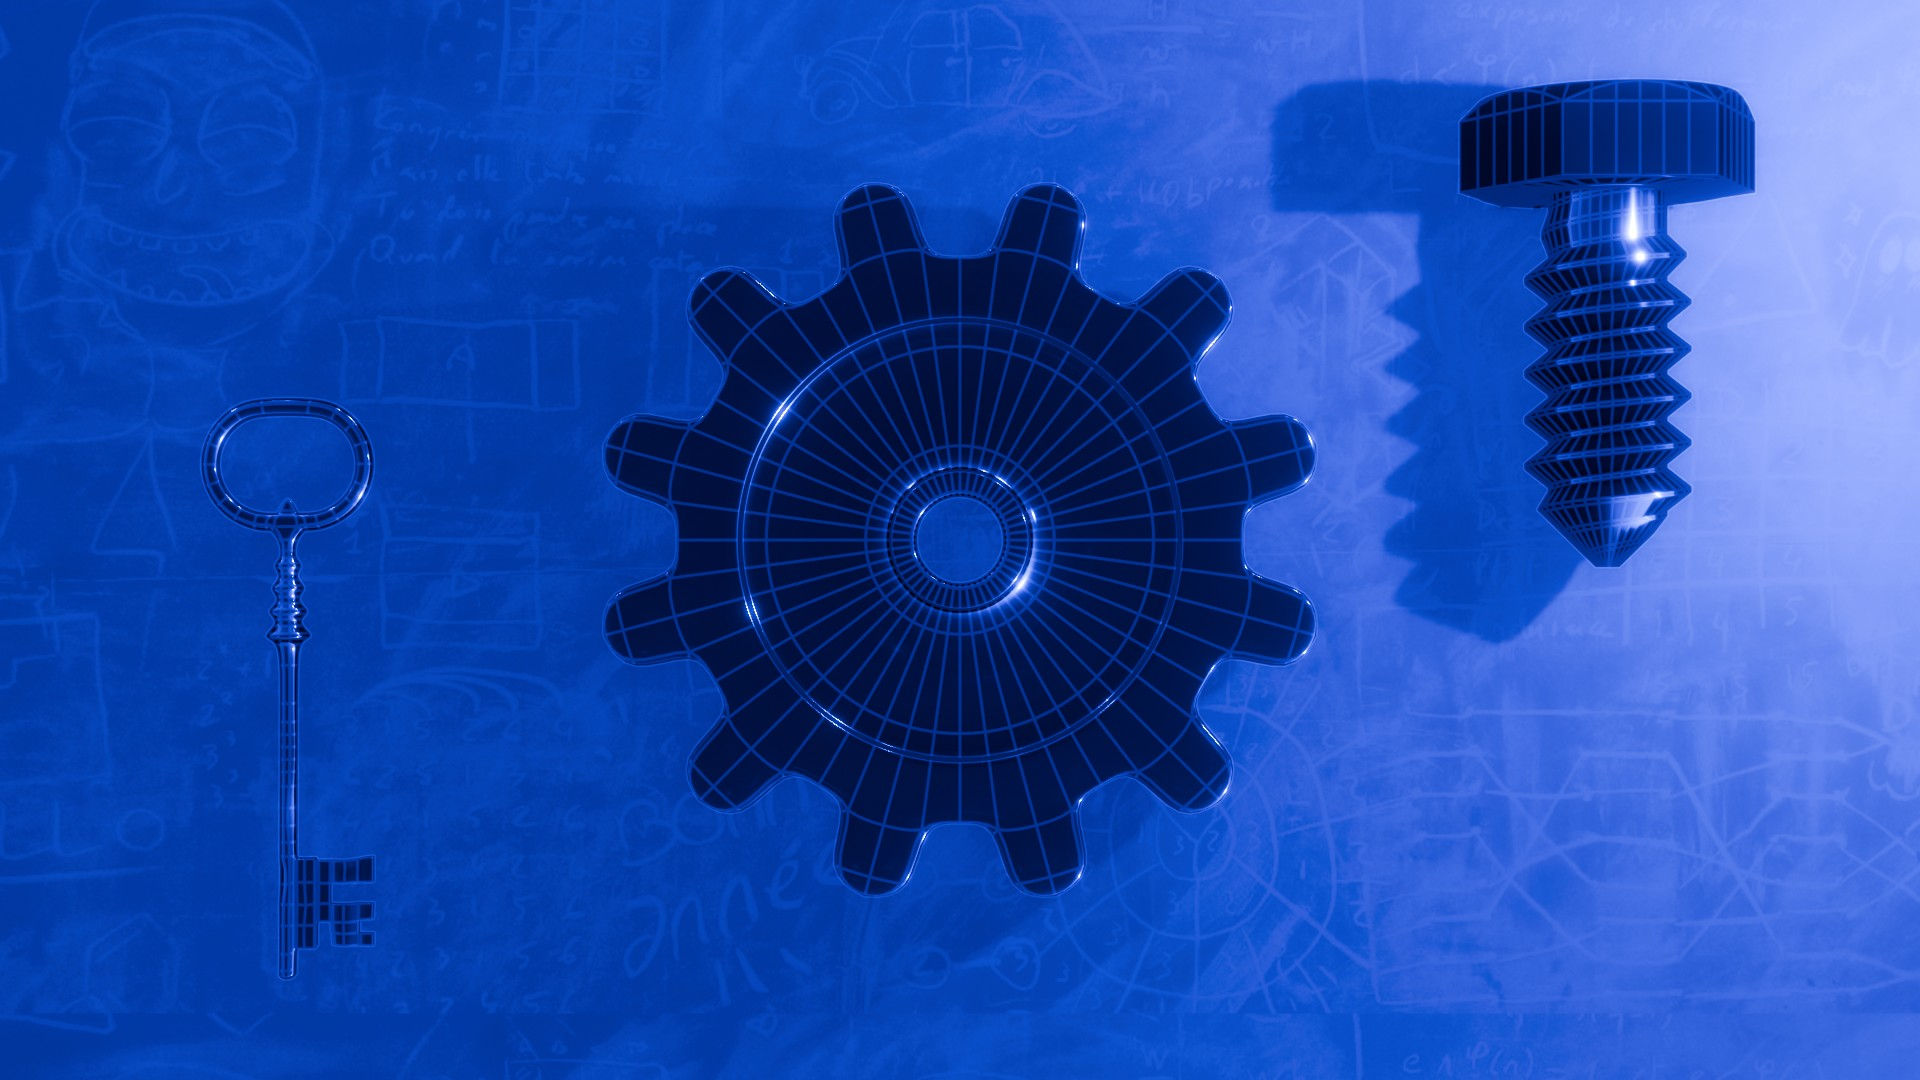
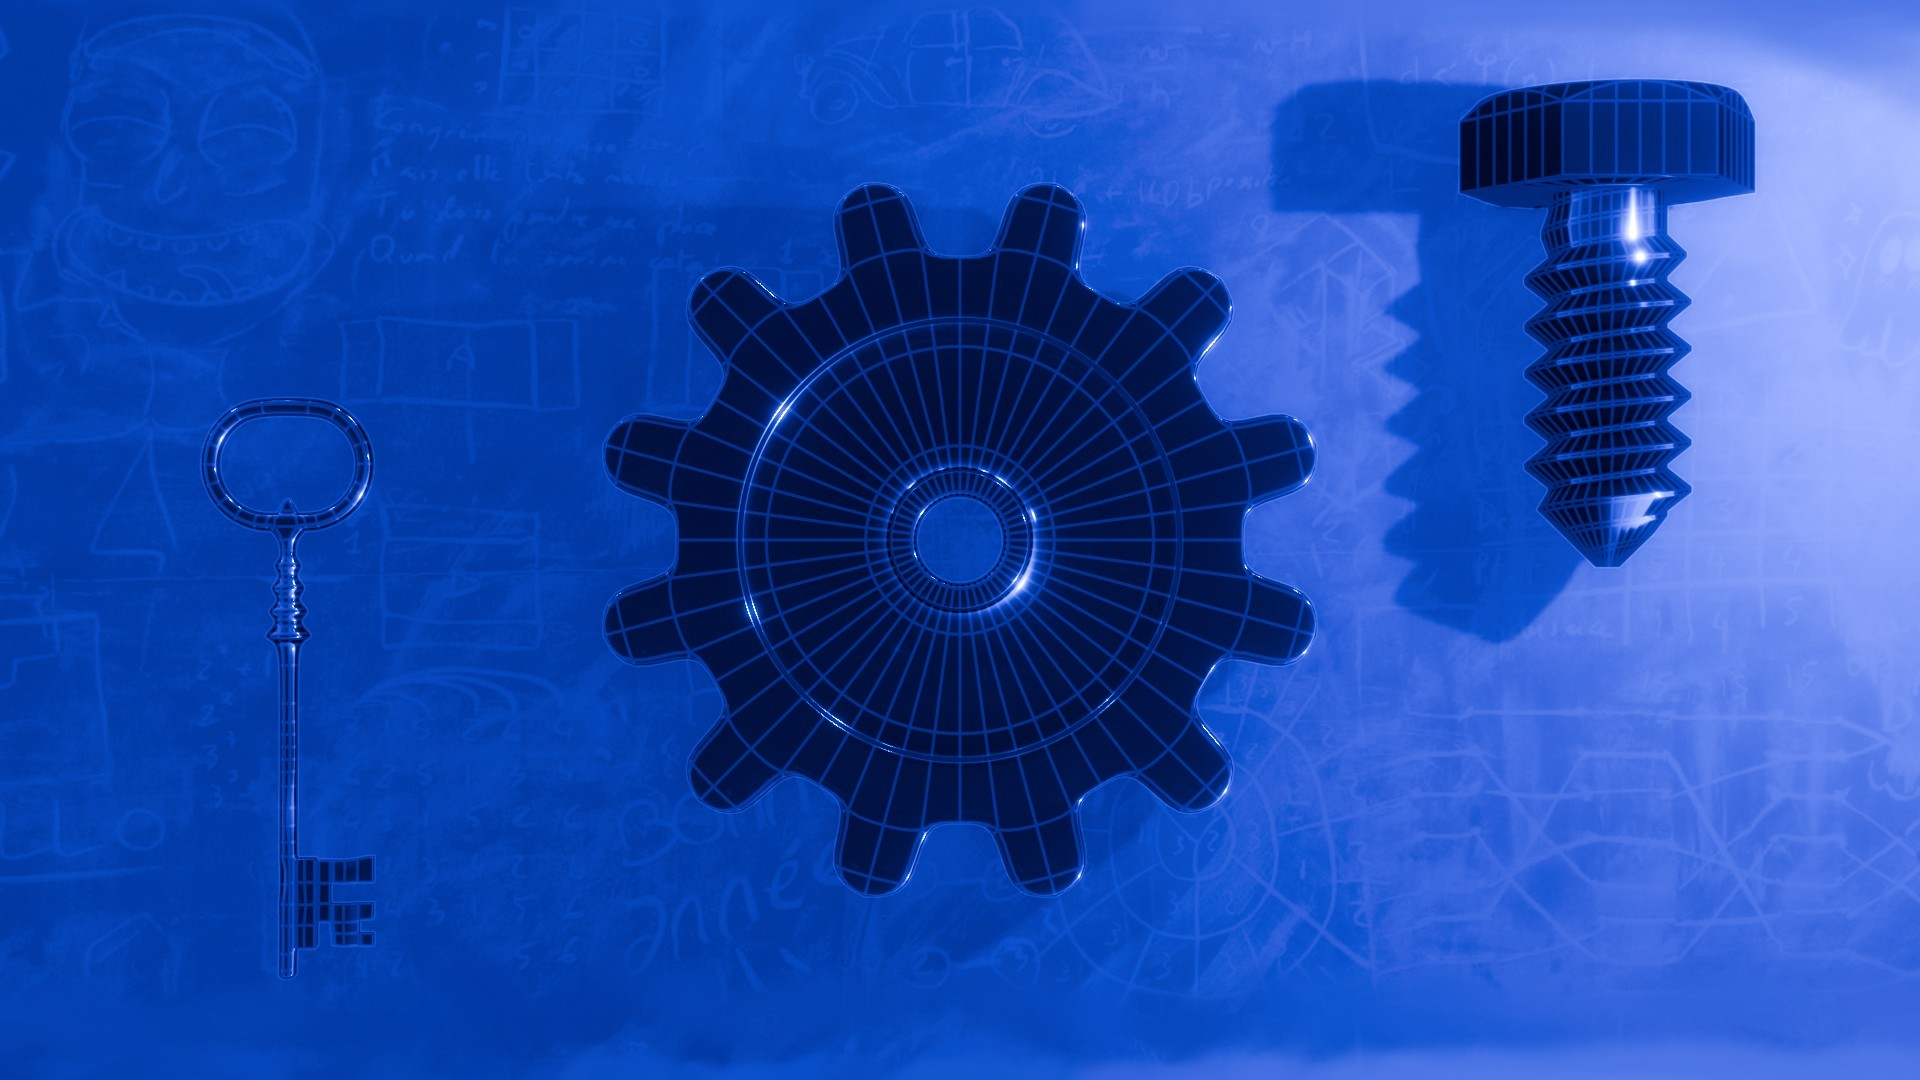
Motor

Changed region(s): [[0.5625, 0.9472, 0.9375, 1.0], [0.7812, 0.0, 1.0, 0.0917], [0.3438, 0.9778, 0.375, 1.0]]

diff --git a/src/app/index.tsx b/src/app/index.tsx
@@ -1,7 +1,7 @@
 /**
  * WARNING! this file has been generated automatically.
  * Please do not edit it because it will probably be overwritten.
- * 2024-01-29T16:36:04.837Z
+ * 2024-01-29T19:04:51.265Z
  */
 import React from "react"
 import Layout0 from "./layout"
@@ -33,12 +33,14 @@ const Page17 = React.lazy(() => import("./work/articles/MediationFamilliale/page
 const Page17_1 = React.lazy(() => import("./work/articles/MediationFamilliale/page.en.mdx"))
 const Page18 = React.lazy(() => import("./work/articles/Minervois/page.mdx"))
 const Page18_1 = React.lazy(() => import("./work/articles/Minervois/page.en.mdx"))
-const Page19 = React.lazy(() => import("./work/articles/SnowRobots/page.mdx"))
-const Page20 = React.lazy(() => import("./work/articles/Tournus/page.mdx"))
-const Page20_1 = React.lazy(() => import("./work/articles/Tournus/page.en.mdx"))
-const Page21 = React.lazy(() => import("./work/articles/TrailTar/page.mdx"))
-const Page21_1 = React.lazy(() => import("./work/articles/TrailTar/page.en.mdx"))
-const Page22 = React.lazy(() => import("./work/articles/VoughtTower/page.mdx"))
+const Page19 = React.lazy(() => import("./work/articles/Motor/page.mdx"))
+const Page19_1 = React.lazy(() => import("./work/articles/Motor/page.en.mdx"))
+const Page20 = React.lazy(() => import("./work/articles/SnowRobots/page.mdx"))
+const Page21 = React.lazy(() => import("./work/articles/Tournus/page.mdx"))
+const Page21_1 = React.lazy(() => import("./work/articles/Tournus/page.en.mdx"))
+const Page22 = React.lazy(() => import("./work/articles/TrailTar/page.mdx"))
+const Page22_1 = React.lazy(() => import("./work/articles/TrailTar/page.en.mdx"))
+const Page23 = React.lazy(() => import("./work/articles/VoughtTower/page.mdx"))
 
 export default function App({ lang }: { lang?: string }) {
     const fb0 = intl(<Loading0/>, {"en": <Loading0_1/>}, lang)
@@ -62,10 +64,11 @@ export default function App({ lang }: { lang?: string }) {
     const pg16 = intl(Page16, {"en": Page16_1}, lang)
     const pg17 = intl(Page17, {"en": Page17_1}, lang)
     const pg18 = intl(Page18, {"en": Page18_1}, lang)
-    const pg19 = Page19
-    const pg20 = intl(Page20, {"en": Page20_1}, lang)
+    const pg19 = intl(Page19, {"en": Page19_1}, lang)
+    const pg20 = Page20
     const pg21 = intl(Page21, {"en": Page21_1}, lang)
-    const pg22 = Page22
+    const pg22 = intl(Page22, {"en": Page22_1}, lang)
+    const pg23 = Page23
     return (
         <Route path="/" Page={pg0} Layout={ly0} fallback={fb0}>
             <Route path="/blog" Page={pg1} Layout={ly1} fallback={fb0}>
@@ -90,10 +93,11 @@ export default function App({ lang }: { lang?: string }) {
                     <Route path="/work/articles/HandsOnWebGL" Page={pg16} fallback={fb0} />
                     <Route path="/work/articles/MediationFamilliale" Page={pg17} fallback={fb0} />
                     <Route path="/work/articles/Minervois" Page={pg18} fallback={fb0} />
-                    <Route path="/work/articles/SnowRobots" Page={pg19} fallback={fb0} />
-                    <Route path="/work/articles/Tournus" Page={pg20} fallback={fb0} />
-                    <Route path="/work/articles/TrailTar" Page={pg21} fallback={fb0} />
-                    <Route path="/work/articles/VoughtTower" Page={pg22} fallback={fb0} />
+                    <Route path="/work/articles/Motor" Page={pg19} fallback={fb0} />
+                    <Route path="/work/articles/SnowRobots" Page={pg20} fallback={fb0} />
+                    <Route path="/work/articles/Tournus" Page={pg21} fallback={fb0} />
+                    <Route path="/work/articles/TrailTar" Page={pg22} fallback={fb0} />
+                    <Route path="/work/articles/VoughtTower" Page={pg23} fallback={fb0} />
                 </Route>
             </Route>
         </Route>

diff --git a/src/components/Article/Article.module.css b/src/components/Article/Article.module.css
@@ -6,14 +6,9 @@
     height: 100%;
     margin: 0;
     padding: 0;
-    overflow: auto;
     color: #fffd;
+    margin: 64px 0 128px 0;
 }
-
-/* .Article > div > * {
-    background-color: #000a;
-    backdrop-filter: blur(5px);
-} */
 
 .Article > footer {
     position: fixed;
@@ -35,58 +30,52 @@
     font-style: italic;
 }
 
-.Grid {
-    display: grid;
-    grid-template-columns: 1fr 390px 390px 1fr;
-    margin: 64px 0;
-}
-
-.Grid > * {
+.Article > * {
     grid-column: 2/4;
 }
 
-.Grid > :global(*.full-width) {
+.Article > :global(*.full-width) {
     grid-column: 1/5;
     padding: 0.5em;
 }
 
-.Grid > :global(*.margin-right) {
+.Article > :global(*.margin-right) {
     grid-column: 4/5;
     padding: 1em;
 }
 
-.Grid > :global(*.margin-left) {
+.Article > :global(*.margin-left) {
     grid-column: 1/2;
     padding: 1em;
 }
 
 @media (max-width: 1200px) {
-    .Grid > :global(*.margin-right) {
+    .Article > :global(*.margin-right) {
         grid-column: 2/4;
     }
 
-    .Grid > :global(*.margin-left) {
+    .Article > :global(*.margin-left) {
         grid-column: 2/4;
     }
 }
 
 @media (max-width: 800px) {
-    .Grid {
+    .Article {
         grid-template-columns: 10px 1fr 1fr 10px;
     }
 }
 
-.Grid h1,
-.Grid h2,
-.Grid h3 {
+.Article h1,
+.Article h2,
+.Article h3 {
     display: block;
     position: relative;
     padding: 0 0 0 0.5em;
 }
 
-.Grid h1::after,
-.Grid h2::after,
-.Grid h3::after {
+.Article h1::after,
+.Article h2::after,
+.Article h3::after {
     content: "";
     position: absolute;
     left: 0;
@@ -96,16 +85,16 @@
     background: linear-gradient(to right, currentcolor, transparent);
 }
 
-.Grid h1 {
+.Article h1 {
     font-size: 145%;
 }
 
-.Grid h2 {
+.Article h2 {
     font-size: 130%;
     margin-left: 1em;
 }
 
-.Grid h3 {
+.Article h3 {
     font-size: 115%;
     margin-left: 2em;
 }

diff --git a/src/components/Welcome/Welcome.tsx b/src/components/Welcome/Welcome.tsx
@@ -1,7 +1,6 @@
 import React from "react"
 import Vignettes from "../Vignettes"
 import Style from "./Welcome.module.css"
-import Contact from "../Contact"
 
 export interface WelcomeProps {
     className?: string
@@ -36,7 +35,7 @@ export default function Welcome({ className }: WelcomeProps) {
                                 font: "16px sans-serif",
                             }}
                         >
-                            <g text-anchor="middle" dominant-baseline="middle">
+                            <g textAnchor="middle" dominantBaseline="middle">
                                 <text fill="currentColor">Tolokoban</text>
                             </g>
                         </svg>
@@ -45,6 +44,7 @@ export default function Welcome({ className }: WelcomeProps) {
                 <Vignettes
                     prefix="work/articles"
                     images={[
+                        "Motor",
                         "Minervois",
                         "Fern",
                         "Akonolinga",

diff --git a/src/app/work/layout.module.css b/src/app/work/layout.module.css
@@ -8,8 +8,8 @@
     overflow: auto;
     background-color: #00349a;
     background-image: url(@/gfx/blue-print.jpg);
-    background-size: cover;
-    background-position: center;
+    background-size: 100%;
+    background-position: left top;
     display: grid;
     grid-template-columns: 1fr min(680px, 95vw) 1fr;
     --theme-color-accent: #cc8700;
@@ -29,8 +29,12 @@
     display: flex;
     justify-content: space-between;
     align-items: center;
-    padding: 0.25em 0.5em;
-    background: linear-gradient(to top, transparent, #1453cebb 80%, #1453ce);
+    padding: 0.125em 0.25em;
+    /* background: linear-gradient(to top, transparent, #1453cebb 80%, #1453ce); */
+    background-image: url(@/gfx/blue-print.jpg);
+    background-size: 100%;
+    background-position: left top;
+    opacity: 0.8;
 }
 
 .main > header a,

diff --git a/src/components/LocalImage/LocalImage.tsx b/src/components/LocalImage/LocalImage.tsx
@@ -1,0 +1,16 @@
+import React from "react"
+
+import Styles from "./LocalImage.module.css"
+
+export interface LocalImageProps {
+    className?: string
+    src: string
+}
+
+export default function LocalImage({ className, src }: LocalImageProps) {
+    return <img className={join(className, Styles.localimage)} src={src} />
+}
+
+function join(...classes: unknown[]): string {
+    return classes.filter((cls) => typeof cls === "string").join(" ")
+}

diff --git a/src/components/Article/Article.tsx b/src/components/Article/Article.tsx
@@ -10,7 +10,7 @@ export default function Article({ className, children }: ArticleProps) {
     const [lang, setLang] = useLang()
     return (
         <div className={join(className, Style.Article)}>
-            <div className={Style.Grid}>{children}</div>
+            <div>{children}</div>
             <footer></footer>
         </div>
     )

diff --git a/src/components/LocalImage/LocalImage.module.css b/src/components/LocalImage/LocalImage.module.css
@@ -1,0 +1,4 @@
+.localimage {
+    max-width: 100%;
+    max-height: 100vh;
+}

diff --git a/src/components/LocalImage/index.ts b/src/components/LocalImage/index.ts
@@ -1,0 +1,1 @@
+export { default } from "./LocalImage"
